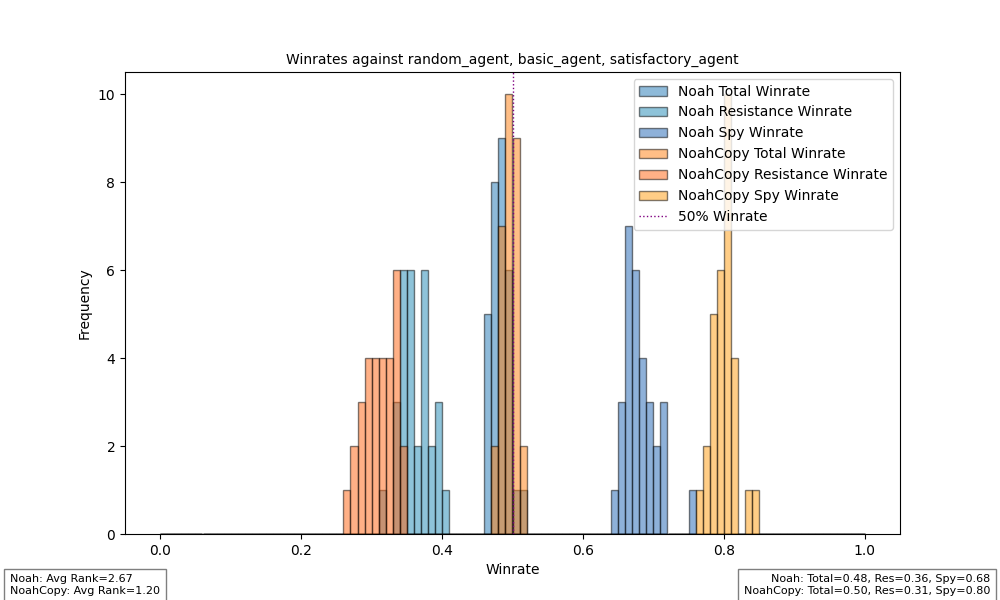
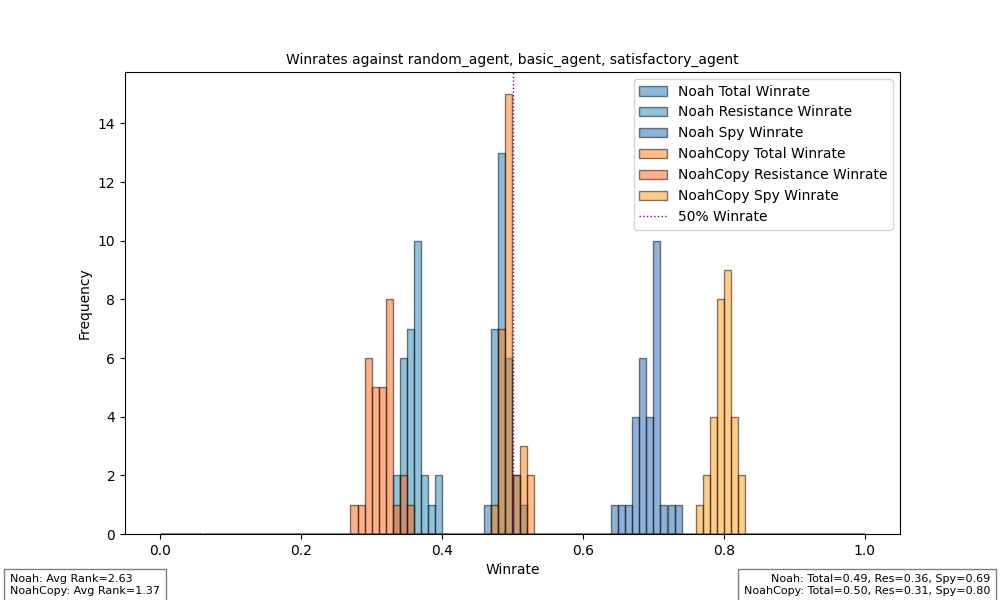
Adam report

diff --git a/the_resistance/hero/Adam.py b/the_resistance/hero/Adam.py
@@ -1,7 +1,7 @@
 from agent import Agent
 import random
 
-class Seth(Agent):
+class Adam(Agent):
     def __init__(self, name):
         self.name = name
 
@@ -20,6 +20,8 @@ class Seth(Agent):
         self.spy = True if self.spies else False
 
         self.votes = []
+        self.round_no = 1
+        self.missions_failed = 0
 
     def propose_mission(self, team_size, betrayals_required):
         top_trusted = sorted(range(len(self.trust)), key=lambda i: -self.trust[i])
@@ -49,6 +51,17 @@ class Seth(Agent):
         return True
 
     def vote_outcome(self, mission, proposer, votes):
+        voted = self.vote(
+            mission, 
+            proposer, 
+            super().betrayals_required[len(self.players)][self.round_no]
+        )
+
+        for player in self.players:
+            player_voted = player in votes
+            if voted != player_voted:
+                self.trust[player] /= 2
+        
         self.votes = votes
 
     def mission_outcome(self, mission, proposer, num_betrayals, mission_success):
@@ -61,7 +74,8 @@ class Seth(Agent):
         self.trust[self.id] = 1
 
     def round_outcome(self, rounds_complete, missions_failed):
-        pass
+        self.round_no = rounds_complete
+        self.missions_failed = missions_failed
     
     def game_outcome(self, spies_win, spies):
         pass

diff --git a/the_resistance/distribution.py b/the_resistance/distribution.py
@@ -38,10 +38,12 @@ for contestant in os.listdir(sideline):
     if contestant.endswith(".py"):
         contestants.append(contestant)
 
-for i in range(len(contestants)+1):
-    combinations += list(itertools.combinations(contestants, i))
+# for i in range(len(contestants)+1):
+#     combinations += list(itertools.combinations(contestants, i))
 
-combinations.remove(())
+# combinations.remove(())
+
+combinations = [contestants]
 
 # =============================
 
@@ -56,7 +58,7 @@ def run_tournament(agent_file, agent_name, contestants):
     result = subprocess.run(["python3", judge], input=str(NUM_PLAYS)+"\n", capture_output=True, text=True, check=False)
     stdout = result.stdout
     stderr = result.stderr
-
+    print(stdout)
     coming = False
     total_winrate, res_win_rate, spy_win_rate, ranking = 0, 0, 0, 0
     for line in stdout.split("\n"):

diff --git a/the_resistance/-repo/NoahCopyCopy.py b/the_resistance/-repo/NoahCopyCopy.py
@@ -51,7 +51,7 @@ class NoahCopyCopy(Agent):
         return choice
 
     def vote(self, mission, proposer, betrayals_required):
-        spy_threshold = 0.4
+        spy_threshold = sum(self.spy_probability(p) for p in mission) / len(mission)
         if self.spy_probability(proposer) > spy_threshold:
             return False
 
@@ -62,7 +62,7 @@ class NoahCopyCopy(Agent):
         return True
 
     def betray(self, mission, proposer, betrayals_required):
-        
+        return True
 
     def vote_outcome(self, mission, proposer, votes):
         pass

diff --git a/REPORT.md b/REPORT.md
@@ -20,14 +20,22 @@ CHOOSING ONE
 This technique hard-codes the concept of trust.
 We assign a trust value of 1 to each agent. This represents the fact that we trust every agent initially.
 If a mission fails, we reduce our trust of the proposer, players in the mission, and players who voted for the mission.
-We pick and vote for the players who we trust most.
+We pick and vote for the players who we trust most. This always includes us.
 
-# Technique 2: Noah
+# Technique 2: bayesian network
+Problem: it gets too complicated
+
+# Technique 3: meta-knowledge
+Problem: the information is, for the most part, symmetrical. So a discrete method does not help. the sums are always 12, 6, 3, or 0.
 Why multi-agent mapping was not necessary.
-Realising 1 is not a good 'probability'. The better starting probability is 1/(n-1 choose num_spies)
-How to calculate odds
+Problem: very slow to update for large player sizes.
 
-explain that you always want to pick the most trusted crew. 
+# Technique 4: Noah
+Realising 1 is not a good 'probability'. The better starting probability is 1/(n-1 choose num_spies)
+How to calculate odds? what is normalization? What formula am I using?
+
+explain that you always want to pick the most trusted crew.
+explain how it's better than seth.
 
 ```py
         spy_threshold = 0.7
@@ -41,3 +49,6 @@ explain that you always want to pick the most trusted crew.
         return True
 ```
 wasn't a good way of voting.
+
+# Conclusion: 
+Other techniques that could have been attempted include: doing a dictionary of knowledge again, but with bayesian inference. This would be good, but the information would still be symmetric and using it for 
